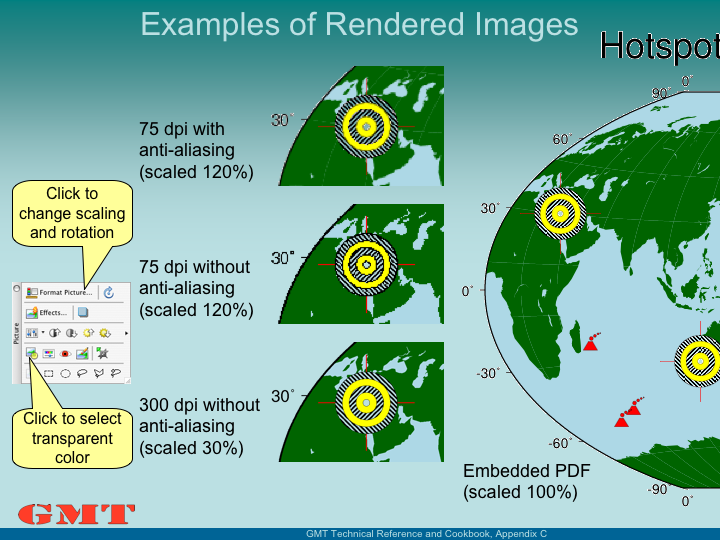
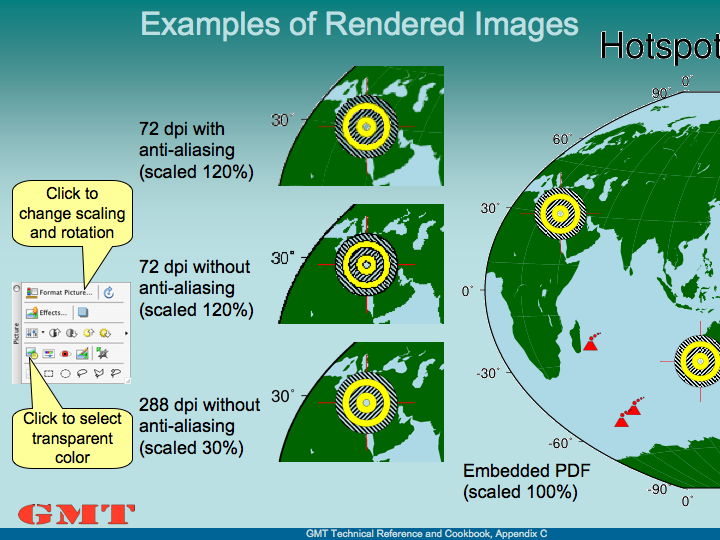
- More changes to Appendix C

diff --git a/doc/GMT_Appendix_C.tex b/doc/GMT_Appendix_C.tex
@@ -1,5 +1,5 @@
 %------------------------------------------
-%	$Id: GMT_Appendix_C.tex,v 1.15 2007-03-20 23:26:34 remko Exp $
+%	$Id: GMT_Appendix_C.tex,v 1.16 2007-03-23 03:51:12 remko Exp $
 %
 %	The GMT Documentation Project
 %	Copyright 2000-2007.
@@ -11,21 +11,19 @@
 \thispagestyle{headings}
 \label{app:C}
 \index{GMT@\GMT!graphics in documents}
-\index{documents!include GMT@\GMT graphics}
+\index{Documents!include GMT@\GMT\ graphics}
 
-Now that you made some nice graphics with \GMT, it is time to add them to a document, an article, a report, your dissertation, a poster, a web page, or a presentation. Of course, you could try the old-fashioned scissors and glue stick. More likely, you want to incorporate your graphics electronically into the document. Depending on the application, the \GMT\ \PS\ file will need to be converted to Encapsulated \PS\ (EPS), PDF, or some raster format in order to incorporate them into the document.
+Now that you made some nice graphics with \GMT, it is time to add them to a document, an article, a report, your dissertation, a poster, a web page, or a presentation. Of course, you could try the old-fashioned scissors and glue stick. More likely, you want to incorporate your graphics electronically into the document. Depending on the application, the \GMT\ \PS\ file will need to be converted to Encapsulated \PS\ (EPS), Portable Document Format (PDF), or some raster format in order to incorporate them into the document.
 \begin{itemize}
 \item When creating a document intended for printing (article, dissertation, or poster) it is best to preserve the scalable vector characteristics of the \PS\ file. Many applications can directly incorporate \PS\ in the form of EPS files. Modern programs will often allow the inclusion of PDF files. Either way, the sharpness of lines and fonts will be preserved and can be scaled up or down as required.
-\item When the aim is to display the graphics on a computer screen or project it using a computer projector, it is wise to convert the \PS\ into a raster format (e.g., JPG, PNG, TIFF). Although applications like \progname{PowerPoint} can do this for you, you can best take the conversion into your own hands for the best results.
+\item When the aim is to display the graphics on a computer screen or present it using a projector, it is wise to convert the \PS\ into a raster format (e.g., JPG, PNG, TIFF). Although applications like \progname{PowerPoint} can do this for you, you can best take the conversion into your own hands for the best results.
 \end{itemize} 
 This Chapter will give some examples of incorporation of \GMT\ graphics into documents and how to achieve the best quality results.
 
-\section{Making \gmt\ Encapsulated \PS\ and PDF Files}
+\section{Making \gmt\ Encapsulated \PS\ Files}
 \index{PostScript@\PS!encapsulated (EPS)}
-\index{PostScript@\PS!convert to PDF}
 \index{PostScript@\PS!BoundingBox}
 \index{EPS file}
-\index{PDF file}
 
 \GMT\ can produce both freeform \PS\ files and the more
 restricted Encapsulated \PS\ files (EPS).  The former is
@@ -39,7 +37,7 @@ file may contain special operators (such as \texttt{Setpagedevice})
 that is specific to printers (e.g., selection of paper tray).
 Some previewers (among them, Sun's \progname{pageview}) do not
 understand these valid instructions and may fail to image the file. Also, embedding freeform \PS\ with such instructions in it into a larger document can create printing to fail.
-While you could choose another viewer (we recommend \progname{ghostview}) to view single plots prepared by \GMT, it is generally wiser to select EPS output when you are creating a plot intended for inclusion into a larger document. Some programs (and some publishers as well) do not allow the use of instructions like \texttt{Setpagedevice} as part of embedded graphics.
+While you could choose another viewer (we recommend \progname{ghostview}) to view single plots prepared by \GMT, it is generally wiser anyhow to select EPS output when you are creating a plot intended for inclusion into a larger document. Some programs (and some publishers as well) do not allow the use of instructions like \texttt{Setpagedevice} as part of embedded graphics.
 
 An EPS file that is to be placed into another document
 needs to have correct bounding box
@@ -76,15 +74,15 @@ is page size and not a huge poster.
 ps2epsi myplot.ps myplot.eps
 \end{verbatim}
 \normalsize
-should also do the trick. The downside is that this program adds an "image" of the plot in the preamble of the EPS file, thus increasing the file size significantly. On the other hand, some programs rely on the presence of this image to show the plot while editing your document.
+should also do the trick. The downside is that this program adds an "image" of the plot in the preamble of the EPS file, thus increasing the file size significantly. This image is a rough rendering of your \PS\ graphics that some programs will show on screen while you are editing your document. This image is basically a placeholder for the \PS\ graphics that will actually be printed.
 
-\item If you also intend to convert the document into PDF or raster image, we suggest you use the \GMT\ supplementary program \GMTprog{ps2raster} instead. The \Opt{A} option will first figure out the tight BoundingBox. For example, running
+\item The preferred option is to use the \GMT\ supplementary program \GMTprog{ps2raster}. Its \Opt{A} option will figure out the tightest BoundingBox, again using \progname{ghostscript} in the background. For example, running
 \small
 \begin{verbatim}
-ps2raster -A -Tf myplot.ps
+ps2raster -A -Te myplot.ps
 \end{verbatim}
 \normalsize
-will convert the \PS\ file \filename{myplot.ps} into a PDF file \filename{myplot.pdf} which is exactly cropped to the tightest possible BoundingBox.
+will convert the \PS\ file \filename{myplot.ps} into an encapsulated \PS\ file \filename{myplot.eps} which is exactly cropped to the tightest possible BoundingBox.
 \end{itemize}
 
 If you do not want to modify your illustration but just include it in a text document: many word processors (such
@@ -92,20 +90,58 @@ as Microsoft \progname{Word}, Corel \progname{WordPerfect}, and Apple \progname{
 will let you include a \PS\ file that you may place but not edit. Newer versions of those programs also allow you to include PDF versions of your graphics. Except for \progname{Pages}, 
 you will not be able to view the figure on-screen, but it will print correctly.
 
-\section{Example: Including \gmt\ graphics into \LaTeX}
-\index{LaTeX@\LaTeX}
+\section{Converting \GMT\ \PS\ to PDF or raster images}
+\index{PostScript@\PS!convert to PDF}
+\index{PDF file}
+\index{PostScript@\PS!convert to raster image}
+\index{PNG file}
+\index{PostScript@\PS!rendering}
 
-All illustrations in this \GMT\ documentation were \GMT-produced \PS\ files. They were converted to PDF files using \GMTprog{ps2raster} and then included into a \LaTeX\ document that was processed with \progname{pdflatex} to create the PDF document you are reading.
+Since Adobe's PDF (Portable Document Format) seems to become the \emph{de facto} standard for vector graphics, you are often well off converting \GMT\ produced \PS\ files to PDF. Being both vector formats (i.e., they basically describe all objects, text and graphics as lines and curves), such conversion sounds awfully straightforward and not worth a full section in this document. But experience has shown differently, since most converters cut corners by using the same tool (Aladdin's \progname{ghostscript}) with basic default options that are not devised to produce the best quality PDF files.
 
-Conversion from \PS\ to PDF can best be performed with the \GMT\ supplementary program \GMTprog{ps2raster}. It is designed to provide the best quality PDF files using \progname{ghostscript} as a rendering engine. The program \GMTprog{ps2raster} avoids anti-aliasing and lossy compression techniques that are default to \progname{ghostscript} and includes the fonts into the resulting PDF file to ensure portability. By default the fonts are rendered at 720 dots-per-inch, but that can be changed with the \Opt{E} option. Simply run
+For some applications it is practical or even essential that you convert your \PS\ file into a raster format, such as GIF (Graphics Interchange Format), TIFF (Tagged Image File Format), PNG (Portable Network Graphics), or JPEG (Joint Photographic Experts Group). A web page is better served with a raster image that will immediately show on a web browser, than a \PS\ file that needs to be downloaded to view, despite the better printing quality of the \PS\ image. A less obvious reason to convert your image to a raster format is to by-pass \progname{PowerPoint}'s rendering engine in case you want to embed the image into a presentation.
+
+The are a number of programs that will convert \PS\ files to PDF or raster formats, like Aladdin's \progname{pstopdf}, pbmplus' \progname{pstoimg}, or ImageMagick's \progname{convert}, most of which run \progname{ghostscript} behind the scenes. The same is true for viewers like \progname{ghostview} and Apple's \progname{Preview}. So a lot of the times when people report that their \PS\ plot does not look right but prints fine, it is the way \progname{ghostscript} is used with its most basic settings is to blame.
+
+\subsection{When converting or viewing \PS\ goes awry}
+\index{Anti-aliasing}
+\index{Image compression!lossy and non-lossy}
+\index{Font!including in PDF}
+Here are some notorious pitfalls with \progname{ghostscript} (and other rendering programs for that matter).
+\begin{description}
+\item[Rendering.] When you are converting to a raster format, make sure you use a high enough resolution so that the pixels do not show when it is enlarged onto a screen or using a projector. The right choice of resolution depends on the application, but do not feel limited to the default 72 dpi (dots-per-inch) that is offered by most converters.
+
+\item[Image compression.] There are \emph{lossy} and \emph{non-lossy} compressions. A compression algorithm is called ``lossy'' when information is lost in the conversion: there is no way back to get the full original. The effect can be seen when there are sharp color transitions in your image: the edges will get blurry in order to allow a more efficient compression. JPEG uses a lossy compression, PNG is non-lossy, and TIFF generally does not use compression at all. We therefore recommend you convert to PNG if you need to rasterize your plot, and leave JPEG to photographs.
+
+\item[Embedded image compression.] When your \GMT\ plot includes objects produced by \GMTprog{grdimage}, \GMTprog{psimage} or \GMTprog{pslegend}, they are seen as ``images''. The default options of \progname{ghostscript} will use a \emph{lossy} compression (similar to JPEG) on those images when converting them to PDF objects. This can be avoided, however, by inhibiting the compression altogether, or using the non-lossy \emph{flate} compression, similar to the one used in the old \progname{compress} program. This compression is fully reversible, so it your image does not suffer any loss.
+
+\item[Auto-rotation.] The \progname{ghostscript} engine has the annoying habit to automatically rotate an image produced with portrait orientation (using the \Opt{P} option) so that the height is always larger than the width. So if you have an image that was printed in portrait mode but happens to have a width larger than height (for example a global map), it would suddenly get rotated. Again, this function needs to be switched off. Apple's \progname{Preview} uses the \progname{ghostscript} engine and suffers from the same annoying habit.
+
+\item[Anti-aliasing.] This is not something to worry about when converting to PDF, but certainly when producing raster images (discussed below). \emph{Anti-aliasing} in this context means that the rendering tries to avoid \emph{aliasing}, for example, sampling only the blacks in a black-and-white hachure. It does so by first oversampling the image and then using ``grey-shades'' when a pixel is only partially white or black.
+
+Clearly, this can lead to some unwanted results. First, all edges and lines get blurry and second, the assumption of a white background causes the grey shades to stand out when transferring the image to background with a different color (like to popular blue in \progname{PowerPoint} presentations). A more surprising effect of anti-aliasing is that the seams between tiles that make up the land mask when using \GMTprog{pscoast} will become visible. The anti-aliasing somehow decides to blur the edges of all polygons, even when they are seamlessly connected to other polygons.
+
+It is therefore wise to overrule the default anti-aliasing option and oversample the image yourself by choosing a higher resolution.
+
+\item[Including fonts.] When you are producing print-ready copy to publishers, they will often (and justifiably) ask that you include all fonts in your PDF document. Again, \progname{ghostscript} (and all converters relying on that engine) will not do so by default.
+\end{description}
+
+The remedy to all these programs is readily available to you in the form of the \GMT\ supplementary program \GMTprog{ps2raster}. It is designed to provide the best quality PDF and raster files using \progname{ghostscript} as a rendering engine. The program \GMTprog{ps2raster} avoids anti-aliasing and lossy compression techniques that are default to \progname{ghostscript} and includes the fonts into the resulting PDF file to ensure portability. By default the fonts are rendered at 720 dots-per-inch in a PDF file and images are sampled to 300 dpi, but that can be changed with the \Opt{E} option. Simply run
 \small
 \begin{verbatim}
 ps2raster -A -Tf *.ps
 \end{verbatim}
 \normalsize
-to convert all \PS\ files to PDF while cropping it to the smallest possible BoundingBox.
+to convert all \PS\ files to PDF while cropping it to the smallest possible BoundingBox. Or use the \Opt{Tg} option to convert your files to PNG.
 
-Next, add the graphics into the \LaTeX\ document using the \verb|\includegraphics| command supplied by the \textsf{graphicx} package. In the preamble of your \LaTeX\ document you will need to include the line
+\section{Examples}
+\subsection{\gmt\ graphics in \LaTeX}
+\index{LaTeX@\LaTeX}
+\index{includegraphics}
+
+All illustrations in this \GMT\ documentation were \GMT-produced \PS\ files. They were converted to PDF files using \GMTprog{ps2raster} and then included into a \LaTeX\ document that was processed with \progname{pdflatex} to create the PDF document you are reading.
+
+To add the graphics into the \LaTeX\ document we use the \verb|\includegraphics| command supplied by the \textsf{graphicx} package. In the preamble of your \LaTeX\ document you will need to include the line
 \small
 \begin{verbatim}
 \usepackage{graphicx}
@@ -123,53 +159,36 @@ The inclusion of the graphics will probably be inside a floating figure environm
 \normalsize
 Note that the \verb|\includegraphics| command does not require you to add the suffix \verb|.pdf| to the file name. If you run \progname{pdflatex}, it will look automatically for \filename{myplot.pdf}. If you run \progname{latex}, it will use \filename{myplot.eps} instead.
 
-You can scale your plot using the options \verb|width=| or \verb|height=|. In addition, if your original graphics was produced in landscape mode (i.e., you did not use \GMT's \Opt{P} option), you will need to rotate the plot as well. For example,
+You can scale your plot using the options \verb|width=|, \verb|height=|, or \verb|scale=|. In addition, if your original graphics was produced in landscape mode (i.e., you did not use \GMT's \Opt{P} option), you will need to rotate the plot as well. For example,
 \small
 \begin{verbatim}
 \includegraphics[angle=-90,width=0.8\textwidth]{myplot}
 \end{verbatim}
 \normalsize
-will rotate the image 90\DS\ clockwise and scale it such that its width will be 80\% of the width of the text column.
+will rotate the image 90\DS\ clockwise and scale it such that its width (after rotation) will be 80\% of the width of the text column.
 
-\section{Converting \gmt\ graphics to raster image}
-\index{PostScript@\PS!convert to raster image}
-\index{PNG file}
-
-For some applications it is practical or even essential that you \PS\ file is converted into a raster format, such as GIF (Graphics Interchange Format), TIFF (Tagged Image File Format), PNG (Portable Network Graphics), or JPEG (Joint Photographic Experts Group). A web page is better served with a raster image that will immediately show on a web browser, than a \PS\ file that needs to be downloaded to view, despite the better printing quality of the \PS\ image. A less obvious reason to convert your image to a raster format is to by-pass \progname{PowerPoint}'s rendering engine in case you want to embed the image into a presentation.
-
-Of all the image formats we strongly recommend to use the PNG format because it can be made non-lossy, has good compression, and allows a basically unlimited number of colors. Again, there are a view options to perform the conversion from \PS\ to PNG.
-\begin{itemize}
-\item The \progname{ImageMagick} package comes with a command-line tool \progname{convert} which using \progname{ghostscript} as a rendering engine. Although its basic syntax is quite easy:
-\small
-\begin{verbatim}
-convert myplot.ps myplot.png
-\end{verbatim}
-\normalsize
-it requires some knowledge of image processing to supply all the right options to get it to produce a high quality image with the right resolution. For example, the default anti-aliasing option should be switched off as we will show below. 
-
-\item The \GMT\ supplemental program \GMTprog{ps2raster} can do the conversion for you much more efficiently. Simply type
-\small
-\begin{verbatim}
-ps2raster -A -Tg *.ps
-\end{verbatim}
-\normalsize
-to convert all \PS\ files to PNG while cropping it to the smallest possible BoundingBox. The default image resolution is 300 dpi, but can be adjusted using the \Opt{E} option.
-\end{itemize}
-
-\section{Example: Including \gmt\ graphics into \progname{PowerPoint}}
-
-\begin{figure}
+\subsection{\gmt\ graphics in \progname{PowerPoint}}
+\begin{figure}[b]
    \includegraphics[width=\textwidth,bb=0 0 720 540]{ppt/rendering.png}
    \caption{Examples of rendered images in a \protect\progname{PowerPoint} presentation.}
    \label{fig:rendering}
 \end{figure}
+\begin{figure}[b]
+   \centering
+   \includegraphics[width=0.6\textwidth,bb=0 0 545 516]{ppt/formatpicture.png}
+   \caption{\protect\progname{PowerPoint}'s "Format Picture" dialogue to set scale and rotation.}
+   \label{fig:formatpicture}
+\end{figure}
 
-In Figure~\ref{fig:rendering} we have attempted to include the result of example 20 into a \progname{PowerPoint} presentation. First the \PS\ file was converted to PDF (using \GMTprog{ps2raster}), then loaded into \progname{PowerPoint} and the white color was made transparent using the formatting toolbar. Clearly, when we let \progname{PowerPoint} do the rendering, we do not get the best result:\begin{enumerate}
+In Figure~\ref{fig:rendering} we have attempted to include the result of example 20 into a \progname{PowerPoint} presentation. First the \PS\ file was converted to PDF (using \GMTprog{ps2raster}), then loaded into \progname{PowerPoint} and the white background color was made transparent using the formatting toolbar (shown on the left side of Figure~\ref{fig:rendering}). Clearly, when we let \progname{PowerPoint} do the rendering, we do not get the best result:
+\begin{enumerate}
 \item The anti-aliasing causes the tiles that make up the land to stand out. This is because the anti-aliasing algorithm blurs all edges, even when the tiles join seamlessly.
-\item The background color was assumed to be white, hence the text is "smoothed" using gray shades, instead shades of blue which would be appropriate for the background we are using.
+\item The background color was assumed to be white, hence the text is "smoothed" using gray shades. Instead, shades of blue which would be appropriate for the background we are using.
 \end{enumerate}
 
-On the left of Figure~\ref{fig:rendering} we have included PNG versions of a portion of the same example. This shows the workings of anti-aliasing and different resolutions. Just switching anti-aliasing off is clearly not an option either. It is true that we got rid of the gray blurring and the seams between the tiles, but without anti-aliasing the image becomes very blocky. The solution is to render the image at a higher resolution (e.g., 300 dpi) and then shrink the image to the appropriate size. The scaling, rotation as well as the selection of the transparent color can be accomplished with the formatting toolbar of \progname{PowerPoint}, which can be found by selecting and right-clicking the included image.
+On the central column of Figure~\ref{fig:rendering} we have included PNG versions of a portion of the same example. This shows the workings of anti-aliasing and different resolutions. All samples were obtained with \progname{convert}. The one on the top uses all default settings, resulting in an anti-aliased image at 72 dpi resolution (very much like the PDF included directly into \progname{PowerPoint}).
+
+Just switching anti-aliasing off (middle) is clearly not an option either. It is true that we got rid of the gray blurring and the seams between the tiles, but without anti-aliasing the image becomes very blocky. The solution is to render the image at a higher resolution (e.g., 300 dpi) without anti-aliasing and then shrink the image to the appropriate size (bottom of the central column in Figure~\ref{fig:rendering}). The scaling, rotation as well as the selection of the transparent color can be accomplished through the "Formatting" tool bar and the "Format Picture" dialogue box of \progname{PowerPoint} (Figure~\ref{fig:formatpicture}), which can be found by selecting and right-clicking the included image (Ctrl-click on a Mac).
 
 \section{Concluding remarks}
 

diff --git a/doc/GMT_Appendix_A.tex b/doc/GMT_Appendix_A.tex
@@ -1,5 +1,5 @@
 %-----------------------------------------
-%	$Id: GMT_Appendix_A.tex,v 1.24 2007-01-30 20:37:07 pwessel Exp $
+%	$Id: GMT_Appendix_A.tex,v 1.25 2007-03-23 03:51:12 remko Exp $
 %
 %	The GMT Documentation Project
 %	Copyright 2000-2007.
@@ -103,7 +103,7 @@ icon files, \GMTprog{gmtdigitize} which provides a GMT interface
 to a digitizing tablet via a serial port, \GMTprog{gmtstitch} which can
 be used to assemble pieces digitized lines into complete lines or
 polygons, \GMTprog{ps2raster} which simplifies the rasterization of \GMT
-\PS\ to raster formats, and \GMTprog{nc2xy} which can extract data from netCDF files.
+\PS\ to raster formats (see Appendix~\ref{app:C}), and \GMTprog{nc2xy} which can extract data from column-oriented netCDF files.
 The package is maintained by Paul Wessel.
 
 \section{segyprogs: Plotting SEGY seismic data}
